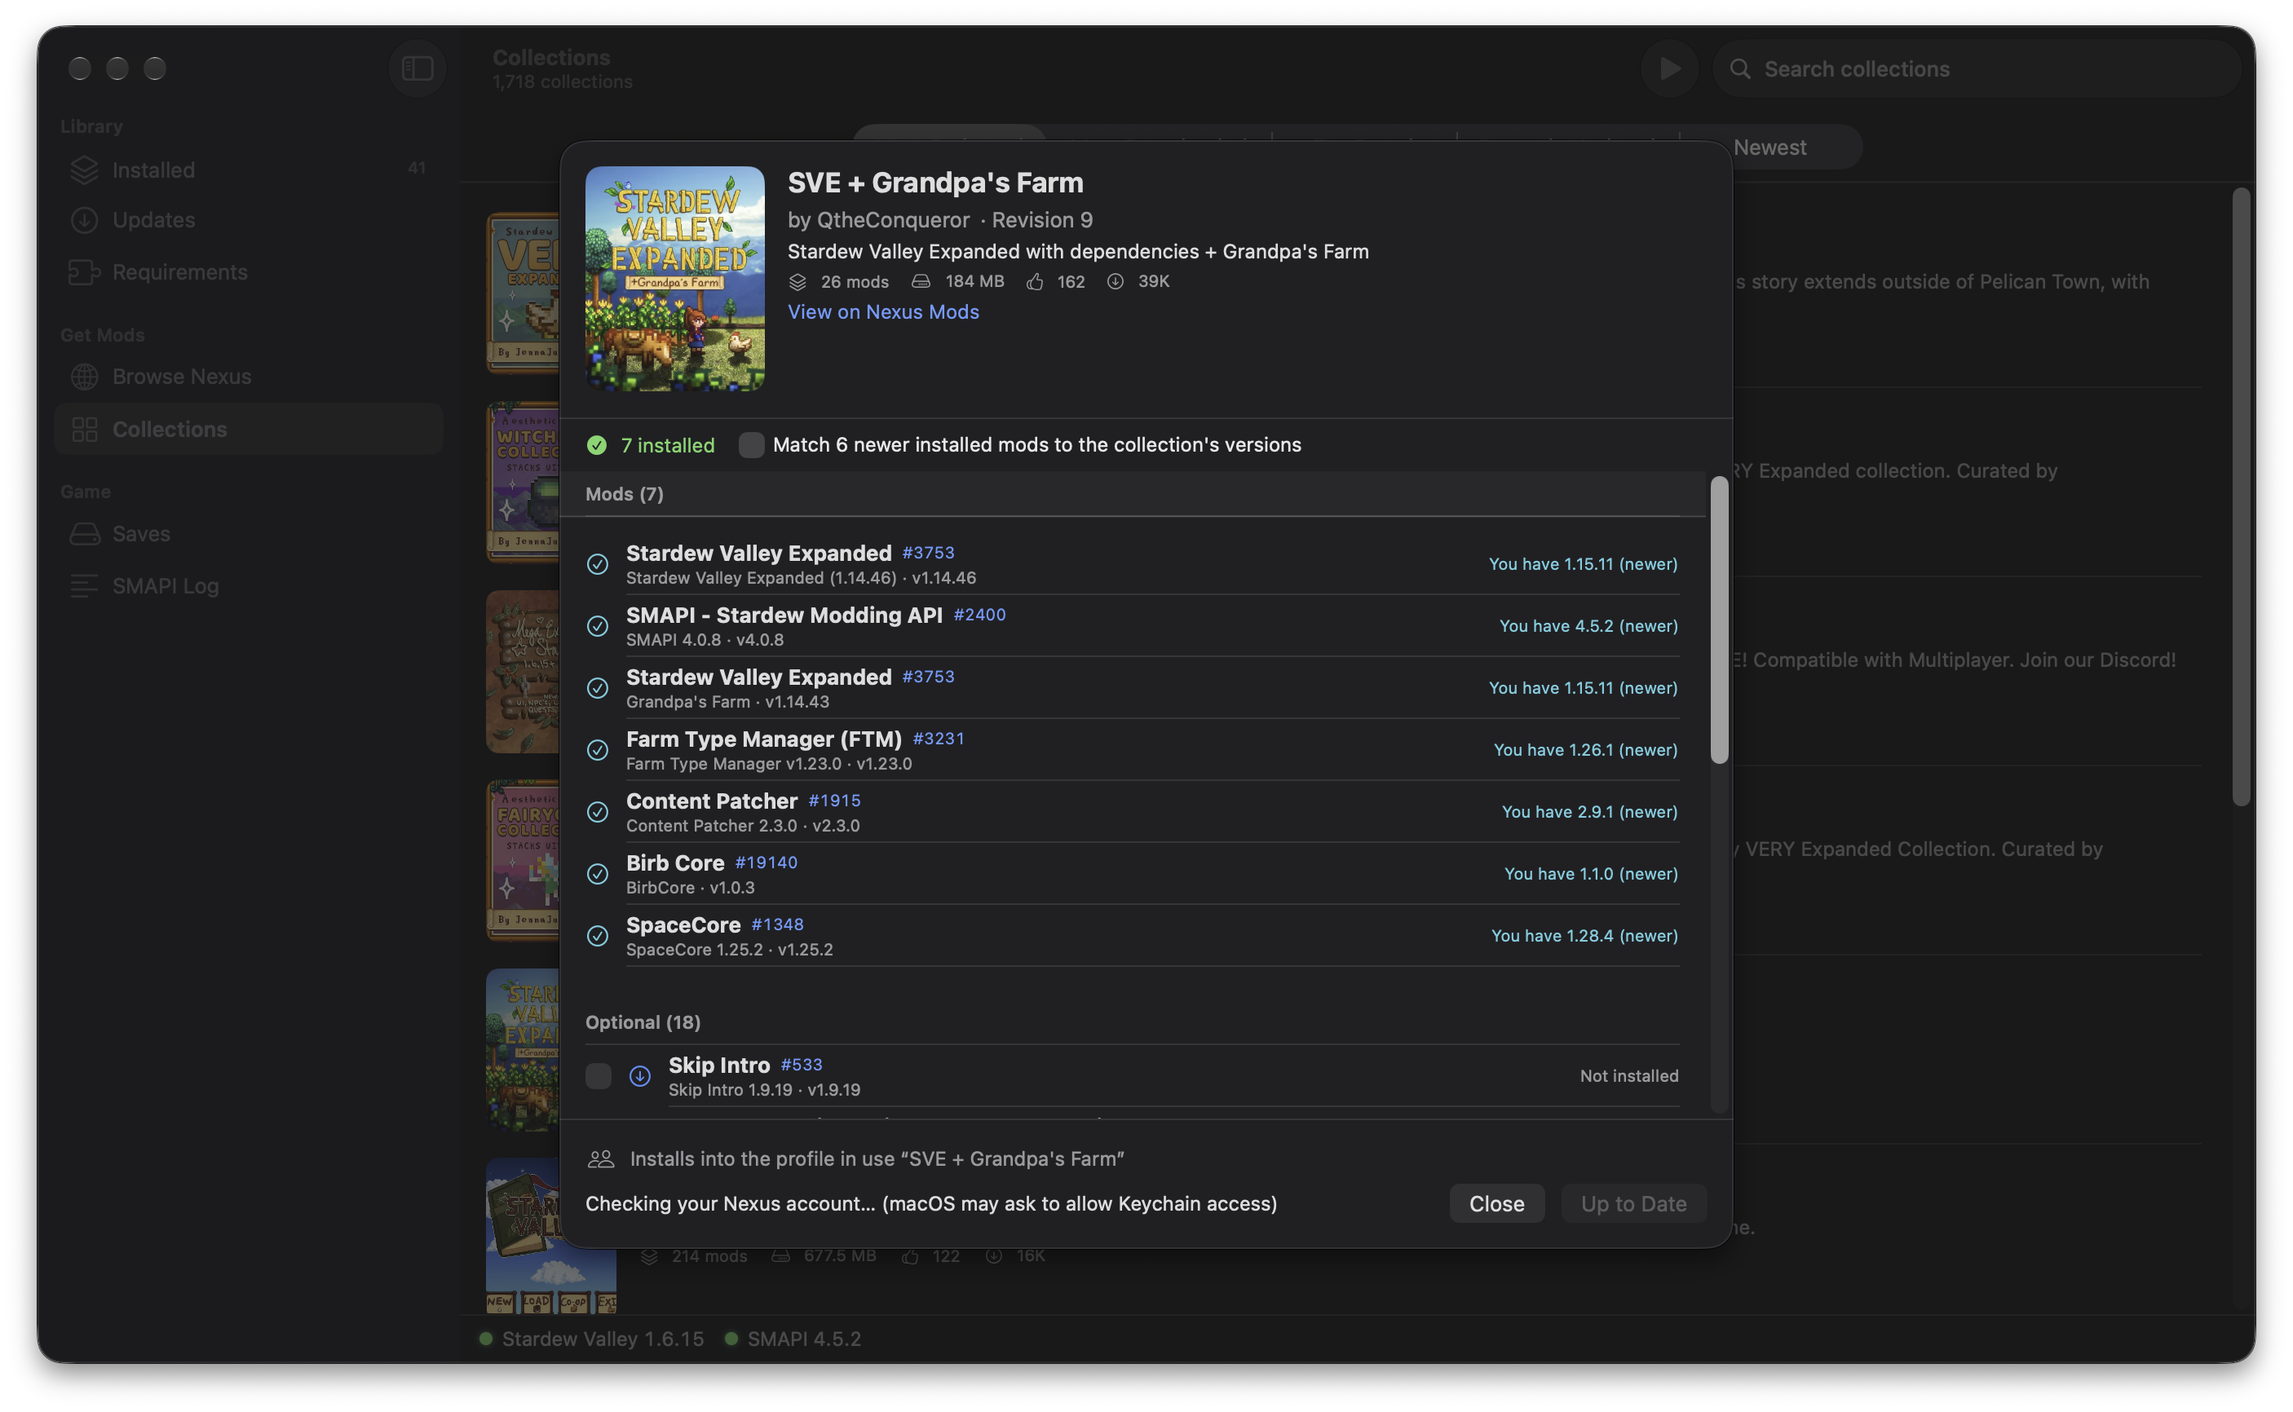
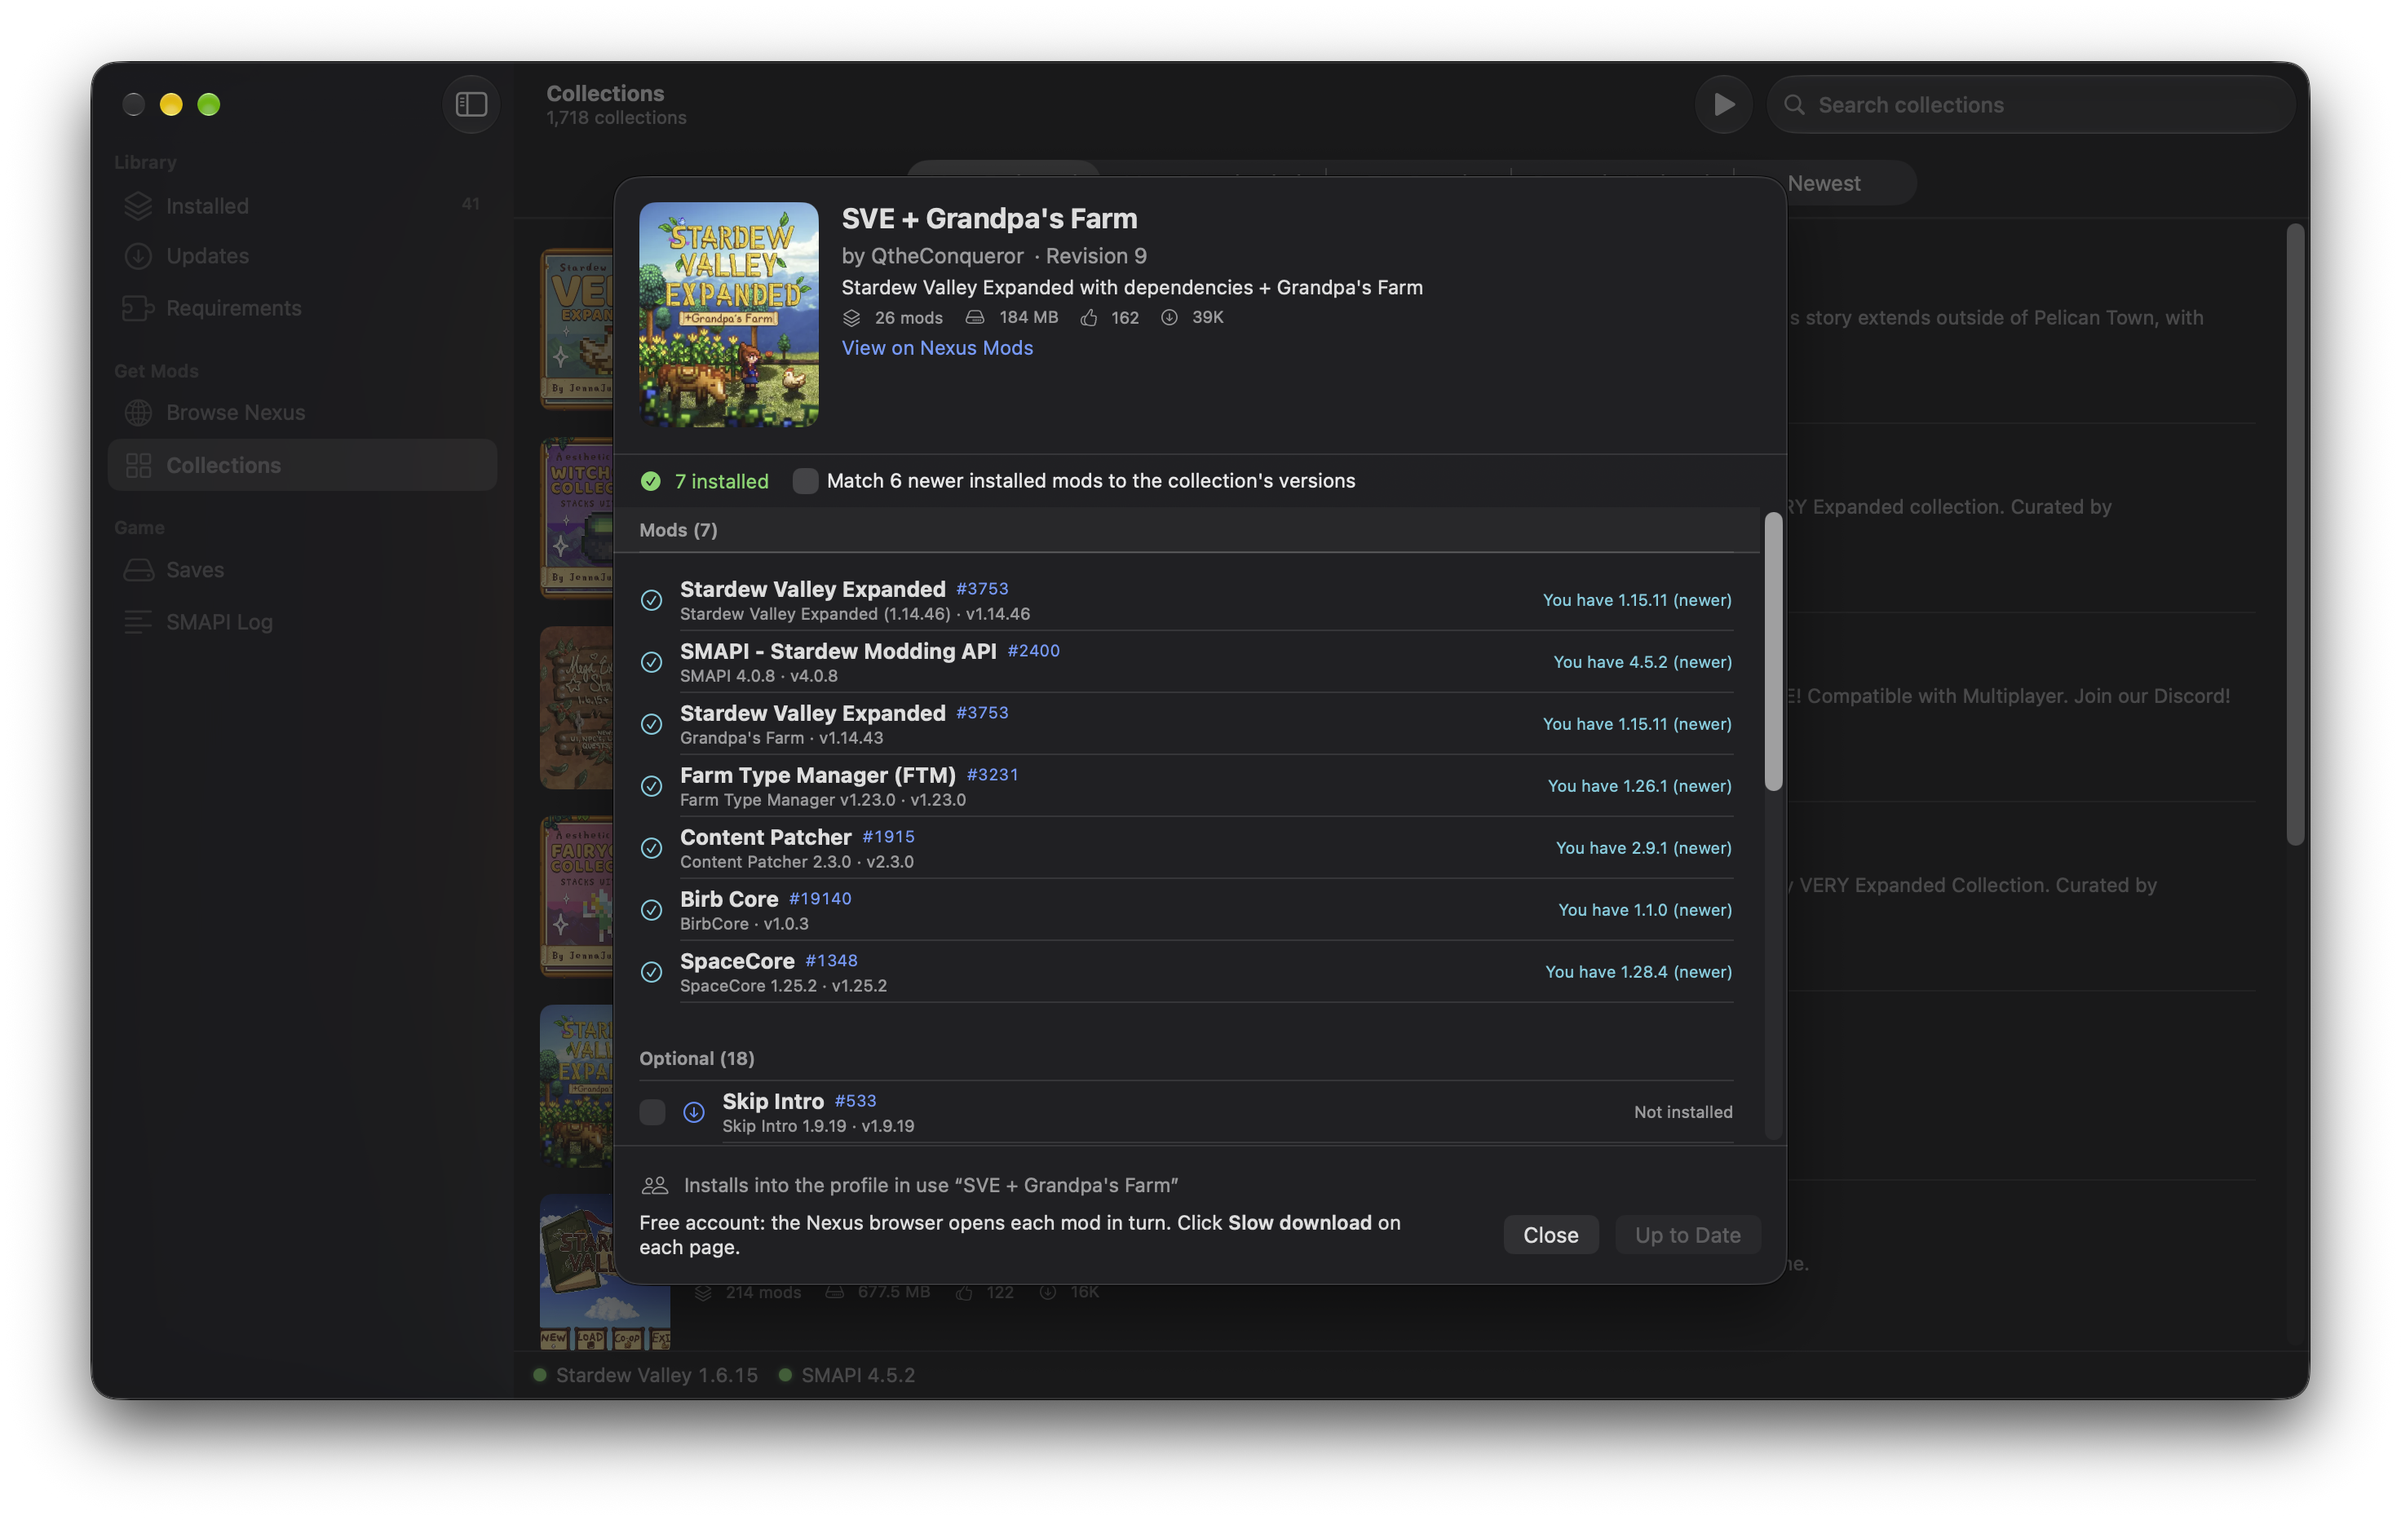
Profile menus check the profile in use with a native checkmark; remove Play a Farm
- Menu bar, filter bar, SMAPI Log header and Saves profile menus use checked items (an icon in a label isn't shown in every menu)
- Play a Farm removed: the game can't open a given save, so it only switched profile
- Help, README and collection screenshot updated

diff --git a/App/HelpView.swift b/App/HelpView.swift
@@ -164,7 +164,7 @@ struct HelpView: View {
         case .profiles:
             HelpSection("Profiles") {
                 HelpText("A profile remembers which mods are on. One is always in use; its name shows in the filter bar of **Installed**, and turning mods on or off updates it. Starseed starts with a **Default** profile.")
-                HelpText("The profile menu at the right of the filter bar switches profiles. Next to it, **This Profile** shows only the mods in the profile in use; **All Mods** shows everything installed.")
+                HelpText("The profile menu at the right of the filter bar shows the profile in use and switches profiles; in the list, the one in use is checked. Next to it, **This Profile** shows only the mods in the profile in use; **All Mods** shows everything installed. The SMAPI Log header and the menu bar icon's menu show it too.")
                 HelpText("Make one for each way you play (a big expansion run, a vanilla-plus game…): **Manage Profiles…** in the profile menu creates, renames and deletes them, starting from the mods on now or from no mods. Choosing another profile switches which mods are on; switching back brings yours back exactly as they were.")
             }
             HelpSection("Sharing a profile") {
@@ -219,7 +219,7 @@ struct HelpView: View {
                 HelpText("Checking mods for updates every few hours and notifications about them, and checking for new versions of Starseed. Each has **Check Now**.")
             }
             HelpSection("The menu bar icon") {
-                HelpText("The icon is on unless you turn it off. With it, closing the window keeps Starseed running, so it keeps checking for updates. Its menu shows the game's and SMAPI's state, the number of updates and the last session's problems. From it you can play, play a farm with its profile (**Play a Farm**), switch or manage profiles, and open a profile's collection, without opening the window.")
+                HelpText("The icon is on unless you turn it off. With it, closing the window keeps Starseed running, so it keeps checking for updates. Its menu shows the game's and SMAPI's state, the number of updates and the last session's problems. From it you can play, switch profiles (the one in use is checked), manage them, and open a profile's collection, without opening the window.")
             }
             HelpSection("Nexus Mods") {
                 HelpText("Your personal API key and your account (free or Premium): **Change Key…** or **Remove** it. **Use This App** makes Starseed catch **Mod Manager Download** links clicked in Safari or Chrome.")

diff --git a/App/Background.swift b/App/Background.swift
@@ -81,24 +81,6 @@ struct MenuBarContent: View {
             .disabled(model.smapiInstallPhase != nil)
         }
         Button("Play Stardew Valley") { model.launchGame() }
-        // Each farm with the profile it's played with: switches, then launches.
-        let saves = SaveGame.list()
-        if !saves.isEmpty {
-            Menu("Play a Farm") {
-                ForEach(saves) { save in
-                    Button {
-                        model.play(save)
-                    } label: {
-                        if let profile = model.profile(forSave: save.id) {
-                            Text("\(save.displayName) · \(profile)")
-                        } else {
-                            Text(save.displayName)
-                        }
-                    }
-                }
-            }
-            .disabled(model.manager == nil)
-        }
         Divider()
 
         let updates = model.modsWithUpdates.count
@@ -133,15 +115,7 @@ struct MenuBarContent: View {
         if !model.profileNames.isEmpty {
             Menu(model.activeProfile.map { String(localized: "Profile: \($0)") } ?? String(localized: "Use Profile")) {
                 ForEach(model.profileNames, id: \.self) { name in
-                    Button {
-                        model.switchProfile(to: name)
-                    } label: {
-                        if name == model.activeProfile {
-                            Label(name, systemImage: "checkmark")
-                        } else {
-                            Text(name)
-                        }
-                    }
+                    CheckedMenuItem(title: name, isChecked: name == model.activeProfile) { model.switchProfile(to: name) }
                 }
                 Divider()
                 if let active = model.activeProfile, let collection = model.profileCollections[active] {

diff --git a/App/Activity.swift b/App/Activity.swift
@@ -334,15 +334,7 @@ struct ProfileIndicator: View {
         if let name = model.activeProfile {
             Menu {
                 ForEach(model.profileNames, id: \.self) { profile in
-                    Button {
-                        model.switchProfile(to: profile)
-                    } label: {
-                        if profile == name {
-                            Label(profile, systemImage: "checkmark")
-                        } else {
-                            Text(profile)
-                        }
-                    }
+                    CheckedMenuItem(title: profile, isChecked: profile == name) { model.switchProfile(to: profile) }
                 }
                 Divider()
                 Button("Show Profile Details") {

diff --git a/App/ProfilesView.swift b/App/ProfilesView.swift
@@ -167,15 +167,7 @@ struct ProfileMenu: View {
     var body: some View {
         Menu {
             ForEach(model.profileNames, id: \.self) { name in
-                Button {
-                    model.switchProfile(to: name)
-                } label: {
-                    if name == model.activeProfile {
-                        Label(name, systemImage: "checkmark")
-                    } else {
-                        Text(name)
-                    }
-                }
+                CheckedMenuItem(title: name, isChecked: name == model.activeProfile) { model.switchProfile(to: name) }
             }
             Divider()
             Button("Show Profile Details") {

diff --git a/App/SavesView.swift b/App/SavesView.swift
@@ -672,10 +672,8 @@ private struct SaveModSetPicker: View {
         Menu {
             Section("Profiles") {
                 ForEach(model.profileNames, id: \.self) { name in
-                    Button {
+                    CheckedMenuItem(title: name, isChecked: current?.name == name) {
                         model.link(saveID: save.id, to: SaveModSet(kind: .profile, name: name))
-                    } label: {
-                        if current?.name == name { Label(name, systemImage: "checkmark") } else { Text(name) }
                     }
                 }
             }

diff --git a/App/PageToolbar.swift b/App/PageToolbar.swift
@@ -65,3 +65,17 @@ struct PanelToolbarButton: View {
         .help(help)
     }
 }
+
+/// A menu item with macOS's own checkmark when it's the current choice
+/// (a checkmark icon in a label isn't shown in every menu).
+struct CheckedMenuItem: View {
+    let title: String
+    let isChecked: Bool
+    let action: () -> Void
+
+    var body: some View {
+        Toggle(isOn: Binding(get: { isChecked }, set: { _ in if !isChecked { action() } })) {
+            Text(verbatim: title)
+        }
+    }
+}

diff --git a/README.md b/README.md
@@ -105,7 +105,9 @@ Everything is explained in the built-in help.
 
 **Keeping up to date**
 - Checks every mod for updates at launch and every few hours, with
-  notifications and an optional menu bar icon.
+  notifications.
+- A menu bar icon (you can turn it off) to play, switch profiles and see
+  updates without opening the window.
 - Read what's new before updating, update one mod or all of them.
 - Every update keeps the previous version, so you can roll back.
 - Tells you when Steam has a game update waiting.
